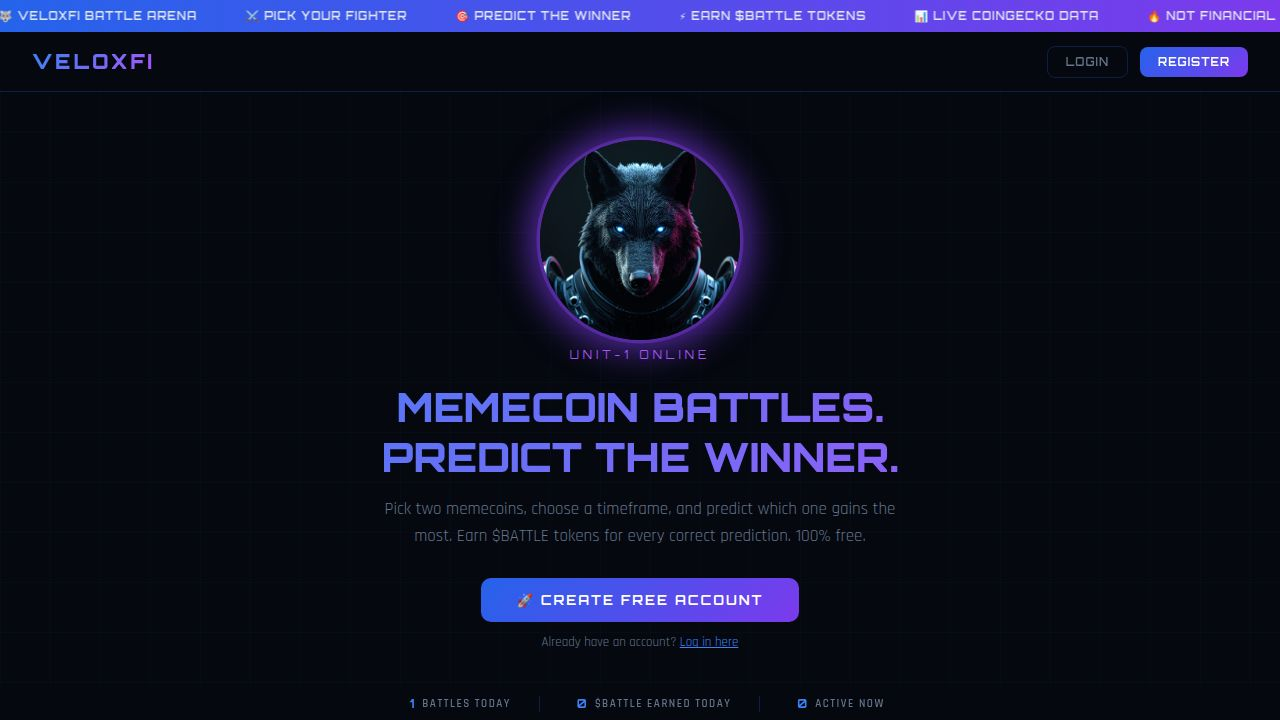
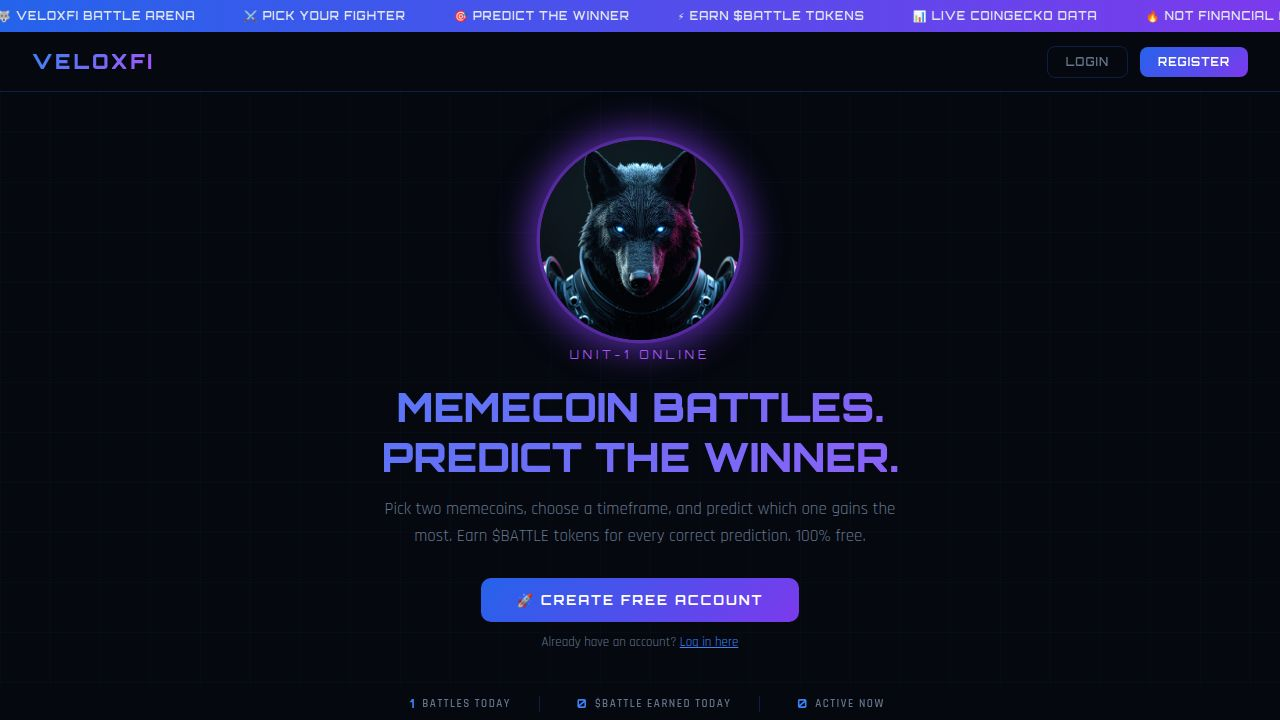
Ensure active battle and stats data are always up-to-date
Add cache-busting to API calls for user profile and stats to prevent stale data display. Refactor navigation logic to consistently fetch the latest active battle status upon page load and during inter-page navigation.

Replit-Commit-Author: Agent
Replit-Commit-Session-Id: 9197b3d8-1940-4419-9024-e914b1135912
Replit-Commit-Checkpoint-Type: full_checkpoint
Replit-Commit-Event-Id: e51386f6-e07e-4008-b05b-143b19222b53
Replit-Commit-Screenshot-Url: https://storage.googleapis.com/screenshot-production-us-central1/6c4c4c1a-6a65-45a2-8588-0d2f4d2c8379/9197b3d8-1940-4419-9024-e914b1135912/4uTJM78
Replit-Helium-Checkpoint-Created: true

diff --git a/artifacts/veloxfi/index.html b/artifacts/veloxfi/index.html
@@ -1228,7 +1228,7 @@
 
 <!-- NAV -->
 <nav>
-  <div class="logo">VELOXFI</div>
+  <div class="logo" onclick="goHome()" style="cursor:pointer">VELOXFI</div>
   <div class="nav-right" id="navRight"></div>
   <button class="hamburger" id="hamburgerBtn" onclick="toggleMobileMenu()" aria-label="Menu" aria-expanded="false">
     <span></span><span></span><span></span>
@@ -2243,6 +2243,9 @@ function goHome() {
   history.replaceState(null, '', window.location.pathname);
   _showOnlyPage('mainPage');
   window.scrollTo(0,0);
+  // Always re-check DB immediately when returning to the main page
+  if (currentUser) checkActiveBattleNow();
+  fetchStatsBar();
 }
 
 function goWhitepaper() {
@@ -2503,7 +2506,13 @@ window.addEventListener('hashchange', () => {
     if (!currentUser) { window.location.hash = ''; _showOnlyPage('mainPage'); window.scrollTo(0,0); return; }
     _showOnlyPage('profilePage'); loadProfile(); window.scrollTo(0,0);
   }
-  else if (!isBattlePage() && !isTeamBattlePage()) { _showOnlyPage('mainPage'); window.scrollTo(0,0); }
+  else if (!isBattlePage() && !isTeamBattlePage()) {
+    _showOnlyPage('mainPage');
+    window.scrollTo(0,0);
+    // Re-check DB immediately every time user returns to main page
+    if (currentUser) checkActiveBattleNow();
+    fetchStatsBar();
+  }
 });
 
 // ═══════════════════════════════════════════════════
@@ -3622,10 +3631,10 @@ function confirmBattleStart() {
   pendingPickCoinId = null;
 }
 
-// ── Stats bar (real DB data) ─────────────────────────────────────
+// ── Stats bar (real DB data, always fresh) ───────────────────────
 async function fetchStatsBar() {
   try {
-    const r = await fetch('/api/veloxfi/stats');
+    const r = await fetch(`/api/veloxfi/stats?_t=${Date.now()}`, { cache: 'no-store' });
     if (!r.ok) return;
     const d = await r.json();
     const bEl = document.getElementById('sbBattles');
@@ -3634,6 +3643,22 @@ async function fetchStatsBar() {
     if (bEl) bEl.textContent = Number(d.battlesToday).toLocaleString();
     if (tEl) tEl.textContent = Number(d.tokensToday).toLocaleString();
     if (aEl) aEl.textContent = Number(d.activeNow).toLocaleString();
+  } catch {}
+}
+
+// ── Active battle status — always checked from DB ────────────────
+async function checkActiveBattleNow() {
+  if (!currentUser) return;
+  const sess = getSession();
+  if (!sess?.tok) return;
+  try {
+    const r = await fetch(`/api/veloxfi/profile?_t=${Date.now()}`, {
+      headers: { Authorization: `Bearer ${sess.tok}` },
+      cache: 'no-store',
+    });
+    if (!r.ok) return;
+    const d = await r.json();
+    checkAndShowActiveBattle(d.activeBattle || null);
   } catch {}
 }
 
@@ -4404,17 +4429,12 @@ async function init() {
       document.getElementById('heroSection').style.display='none';
       document.getElementById('wolfSmallSection').style.display='block';
       document.getElementById('activeBattlesSection').style.display='none';
-      // Check for active battle in DB and show banner if running
-      const sess = getSession();
-      if (sess?.tok) {
-        fetch('/api/veloxfi/profile', { headers: { Authorization: `Bearer ${sess.tok}` } })
-          .then(r => r.ok ? r.json() : null)
-          .then(d => { if (d?.activeBattle) checkAndShowActiveBattle(d.activeBattle); })
-          .catch(() => {});
-      }
+      // Immediately check DB for active battle — runs in parallel, shows card as soon as data arrives
+      checkActiveBattleNow();
     }
-    fetchMemecoins();
+    // Fire stats + coins concurrently — do not await so they load in parallel
     fetchStatsBar();
+    fetchMemecoins();
     setInterval(fetchMemecoins, 5 * 60_000);
     setInterval(() => { if (activeBattles.length) fetchPrices(); }, 30_000);
     setInterval(updateRefreshLabel, 60_000);